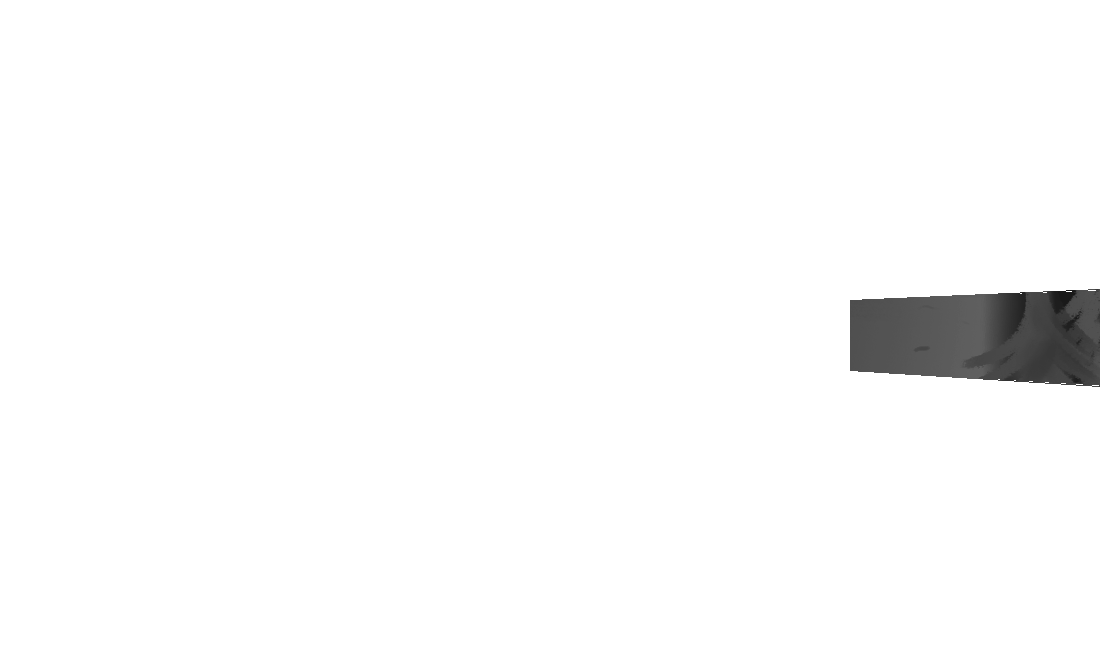
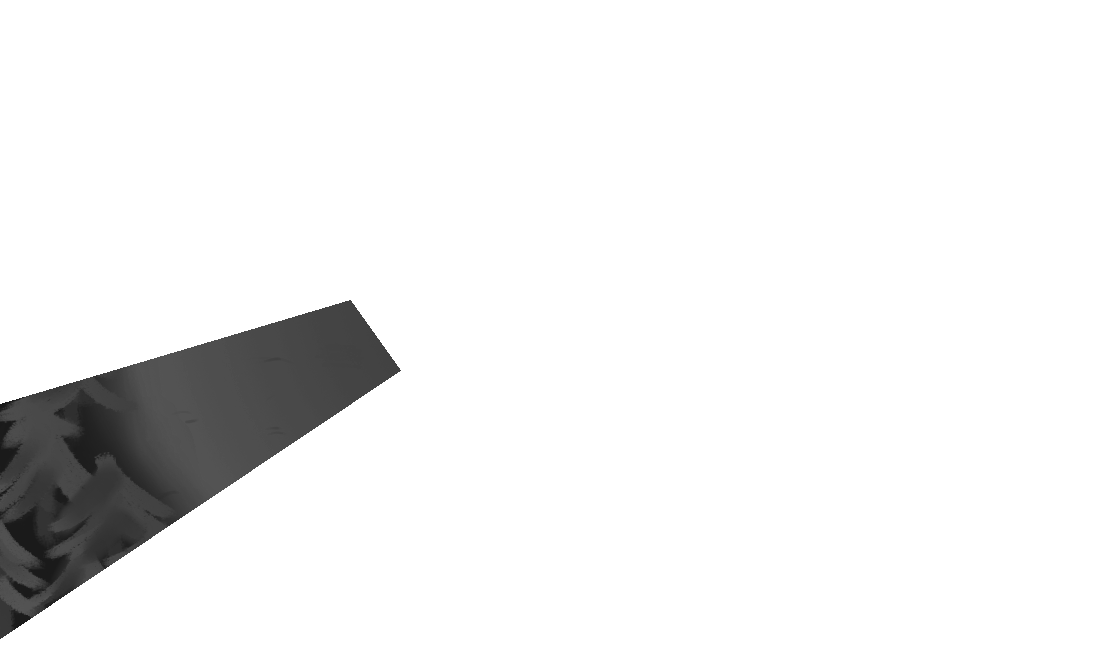
finished character shooting

Changed region(s): [[0.0, 0.4615, 0.3709, 0.9846], [0.7727, 0.4308, 1.0, 0.6154]]

diff --git a/Player.py b/Player.py
@@ -11,8 +11,8 @@ class Player:
     FIRE_REGEN_RATE = 1  # regenerate 1 fireball per second
     MAX_FIREBALLS = 10
     FREEZE_SPEED = 0.5
-    WIDTH = 25
-    HEIGHT = 25
+    WIDTH = 100
+    HEIGHT = 100
     ANIMATION_RATE = 7
 
     def __init__(self, x, y, speed):
@@ -67,26 +67,26 @@ class Player:
             else:
                 win.blit(back[self.animation_step], (self.x - 70, self.y - 70))
         else:
-            if self.direction == "right":
-                if self.shooting:
-                    win.blit(shoot[0], (self.x - 70, self.y - 70))
+            if self.shooting:
+                if mousepos[1] >= self.y-30 and mousepos[1] <= self.y-30 + self.HEIGHT:
+                    if mousepos[0] >= self.x+self.WIDTH:
+                        win.blit(shoot[0], (self.x - 70, self.y - 70))
+                    elif mousepos[0] <= self.x:
+                        win.blit(shoot[1], (self.x - 70, self.y - 70))
                 else:
-                    win.blit(right[0], (self.x - 70, self.y - 70))
-            elif self.direction == "left":
-                if self.shooting:
-                    win.blit(shoot[1], (self.x - 70, self.y - 70))
-                else:
-                    win.blit(left[0], (self.x - 70, self.y - 70))
-            elif self.direction == "front":
-                if self.shooting:
-                    win.blit(shoot[2], (self.x - 70, self.y - 70))
-                else:
-                    win.blit(front[0], (self.x - 70, self.y - 70))
+                    if mousepos[1] > self.y-30+self.HEIGHT:
+                        win.blit(shoot[2], (self.x - 70, self.y - 70))
+                    elif mousepos[1] < self.y-30:
+                        win.blit(shoot[3], (self.x - 70, self.y - 70))
             else:
-                if self.shooting:
-                    win.blit(shoot[3], (self.x - 70, self.y - 70))
+                if self.direction == "right":
+                        win.blit(right[0], (self.x - 70, self.y - 70))
+                elif self.direction == "left":
+                        win.blit(left[0], (self.x - 70, self.y - 70))
+                elif self.direction == "front":
+                        win.blit(front[0], (self.x - 70, self.y - 70))
                 else:
-                    win.blit(back[0], (self.x - 70, self.y - 70))
+                        win.blit(back[0], (self.x - 70, self.y - 70))
 
     def draw_freezing(self, win, image):
         if 250 > self.time_freezing > 0:

diff --git a/Main.py b/Main.py
@@ -105,7 +105,6 @@ def main():
 
         keys = pygame.key.get_pressed()
         mousepos = pygame.mouse.get_pos()
-        print(mousepos)
 
         for event in pygame.event.get():
             if event.type == pygame.QUIT:
